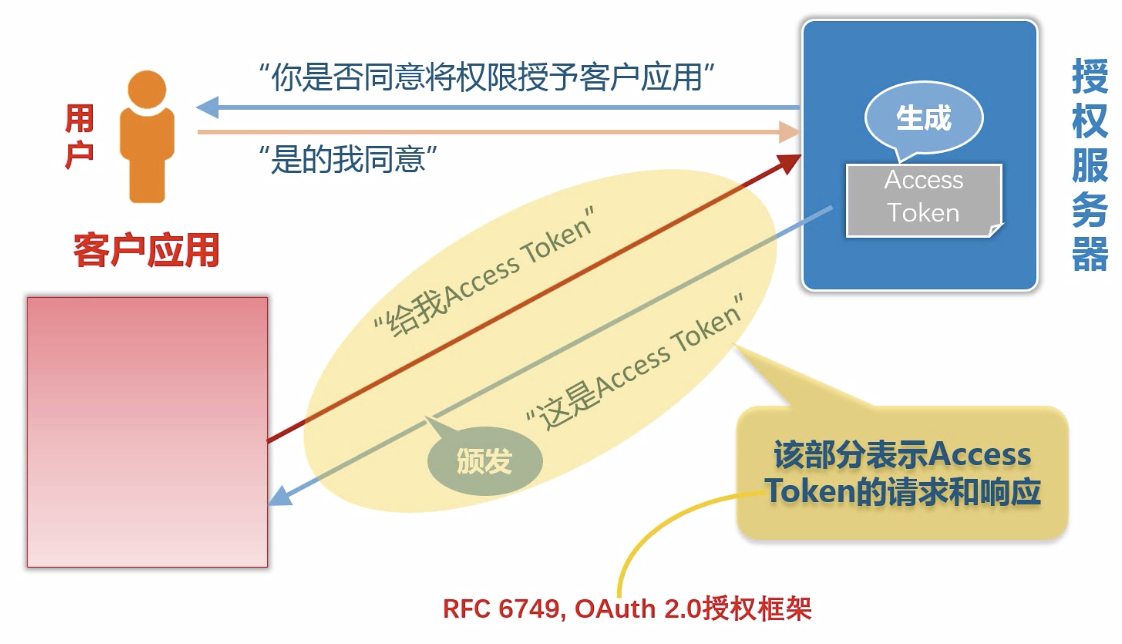
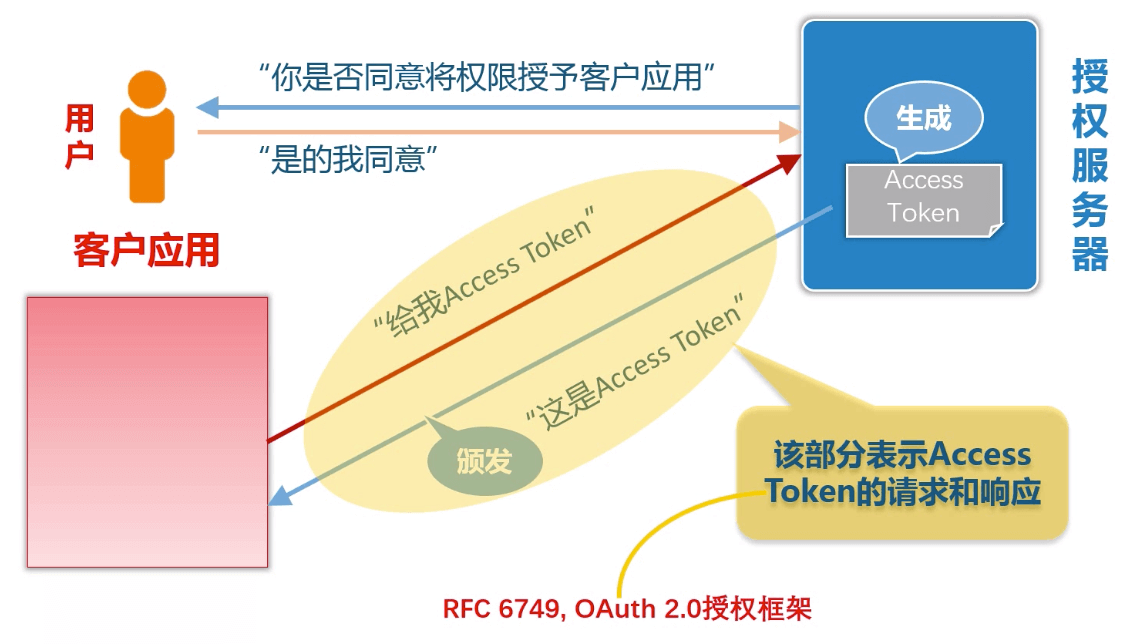
master 压缩图片

diff --git a/blog/2019-06/浏览器输入网址再按下回车后后面发生了什么/index.html b/blog/2019-06/浏览器输入网址再按下回车后后面发生了什么/index.html
@@ -9,7 +9,7 @@
   <meta name="author" content="xpblog">
   <meta name="description" content="序 在日常工作或者面试的时候，我们会经常被问到或者说需要知道。当我们在浏览器中输入一个网址的时候，后面发生了 什么？ 抓包分析 首先我们用浏览器访问127.0.0.1:8000，然后用Wireshark抓包查看整个过程。 我们可以看到浏览器用55938这个端口和服务端的8000端口，先是通过37、38、39这三个序号，完成tcp/ip三次握手，建立连接。 然后在序号54，发送了一个GET请求。55、56则是服">
   
-  <meta property="og:title" content="浏览器输入网址再按下回车后，后面发生了什么？" />
+  <meta property="og:title" content="浏览器输入网址再按下回车后，后面发生了什么" />
 <meta property="og:description" content="序 在日常工作或者面试的时候，我们会经常被问到或者说需要知道。当我们在浏览器中输入一个网址的时候，后面发生了 什么？ 抓包分析 首先我们用浏览器访问127.0.0.1:8000，然后用Wireshark抓包查看整个过程。 我们可以看到浏览器用55938这个端口和服务端的8000端口，先是通过37、38、39这三个序号，完成tcp/ip三次握手，建立连接。 然后在序号54，发送了一个GET请求。55、56则是服" />
 <meta property="og:type" content="article" />
 <meta property="og:url" content="https://xp329486175.github.io/blog/2019-06/%E6%B5%8F%E8%A7%88%E5%99%A8%E8%BE%93%E5%85%A5%E7%BD%91%E5%9D%80%E5%86%8D%E6%8C%89%E4%B8%8B%E5%9B%9E%E8%BD%A6%E5%90%8E%E5%90%8E%E9%9D%A2%E5%8F%91%E7%94%9F%E4%BA%86%E4%BB%80%E4%B9%88/" />
@@ -20,7 +20,7 @@
 
   <title>
   
-       浏览器输入网址再按下回车后，后面发生了什么？ | xpblog 
+       浏览器输入网址再按下回车后，后面发生了什么 | xpblog 
   
   </title>
 
@@ -323,7 +323,7 @@
     
   </ul>
 
-  <div class="px-4 post-heading">浏览器输入网址再按下回车后，后面发生了什么？</div>
+  <div class="px-4 post-heading">浏览器输入网址再按下回车后，后面发生了什么</div>
 
   <ul class="post-meta li-x mt-1">
     

diff --git a/categories/网络协议/index.html b/categories/网络协议/index.html
@@ -489,7 +489,7 @@
     
     <span class="meta"><time datetime='2019-06-14T09:28:48&#43;08:00'>Jun 14, 2019</time></span>
     
-    <a href="https://xp329486175.github.io/blog/2019-06/%E6%B5%8F%E8%A7%88%E5%99%A8%E8%BE%93%E5%85%A5%E7%BD%91%E5%9D%80%E5%86%8D%E6%8C%89%E4%B8%8B%E5%9B%9E%E8%BD%A6%E5%90%8E%E5%90%8E%E9%9D%A2%E5%8F%91%E7%94%9F%E4%BA%86%E4%BB%80%E4%B9%88/"><span>浏览器输入网址再按下回车后，后面发生了什么？</span></a>
+    <a href="https://xp329486175.github.io/blog/2019-06/%E6%B5%8F%E8%A7%88%E5%99%A8%E8%BE%93%E5%85%A5%E7%BD%91%E5%9D%80%E5%86%8D%E6%8C%89%E4%B8%8B%E5%9B%9E%E8%BD%A6%E5%90%8E%E5%90%8E%E9%9D%A2%E5%8F%91%E7%94%9F%E4%BA%86%E4%BB%80%E4%B9%88/"><span>浏览器输入网址再按下回车后，后面发生了什么</span></a>
 </li>
 
                 

diff --git a/series/网络协议/index.html b/series/网络协议/index.html
@@ -489,7 +489,7 @@
     
     <span class="meta"><time datetime='2019-06-14T09:28:48&#43;08:00'>Jun 14, 2019</time></span>
     
-    <a href="https://xp329486175.github.io/blog/2019-06/%E6%B5%8F%E8%A7%88%E5%99%A8%E8%BE%93%E5%85%A5%E7%BD%91%E5%9D%80%E5%86%8D%E6%8C%89%E4%B8%8B%E5%9B%9E%E8%BD%A6%E5%90%8E%E5%90%8E%E9%9D%A2%E5%8F%91%E7%94%9F%E4%BA%86%E4%BB%80%E4%B9%88/"><span>浏览器输入网址再按下回车后，后面发生了什么？</span></a>
+    <a href="https://xp329486175.github.io/blog/2019-06/%E6%B5%8F%E8%A7%88%E5%99%A8%E8%BE%93%E5%85%A5%E7%BD%91%E5%9D%80%E5%86%8D%E6%8C%89%E4%B8%8B%E5%9B%9E%E8%BD%A6%E5%90%8E%E5%90%8E%E9%9D%A2%E5%8F%91%E7%94%9F%E4%BA%86%E4%BB%80%E4%B9%88/"><span>浏览器输入网址再按下回车后，后面发生了什么</span></a>
 </li>
 
                 

diff --git a/tags/网络协议/index.html b/tags/网络协议/index.html
@@ -489,7 +489,7 @@
     
     <span class="meta"><time datetime='2019-06-14T09:28:48&#43;08:00'>Jun 14, 2019</time></span>
     
-    <a href="https://xp329486175.github.io/blog/2019-06/%E6%B5%8F%E8%A7%88%E5%99%A8%E8%BE%93%E5%85%A5%E7%BD%91%E5%9D%80%E5%86%8D%E6%8C%89%E4%B8%8B%E5%9B%9E%E8%BD%A6%E5%90%8E%E5%90%8E%E9%9D%A2%E5%8F%91%E7%94%9F%E4%BA%86%E4%BB%80%E4%B9%88/"><span>浏览器输入网址再按下回车后，后面发生了什么？</span></a>
+    <a href="https://xp329486175.github.io/blog/2019-06/%E6%B5%8F%E8%A7%88%E5%99%A8%E8%BE%93%E5%85%A5%E7%BD%91%E5%9D%80%E5%86%8D%E6%8C%89%E4%B8%8B%E5%9B%9E%E8%BD%A6%E5%90%8E%E5%90%8E%E9%9D%A2%E5%8F%91%E7%94%9F%E4%BA%86%E4%BB%80%E4%B9%88/"><span>浏览器输入网址再按下回车后，后面发生了什么</span></a>
 </li>
 
                 

diff --git a/blog/2019-06/oauth2协议之白话oauth2/index.html b/blog/2019-06/oauth2协议之白话oauth2/index.html
@@ -471,7 +471,7 @@ OAuth2.0并不是单个协议，而是一套协议。<br />
                 <a href=https://xp329486175.github.io/blog/2019-06/%E6%B5%8F%E8%A7%88%E5%99%A8%E8%BE%93%E5%85%A5%E7%BD%91%E5%9D%80%E5%86%8D%E6%8C%89%E4%B8%8B%E5%9B%9E%E8%BD%A6%E5%90%8E%E5%90%8E%E9%9D%A2%E5%8F%91%E7%94%9F%E4%BA%86%E4%BB%80%E4%B9%88/ class="post-meta">Previous
                   <div class="pt-2 pb-5 d-flex">
                     <i class="fas fa-angle-left text-grey font-weight-bold mr-2 active-color"></i>
-                    <span>浏览器输入网址再按下回车后，后面发生了什么？</span>
+                    <span>浏览器输入网址再按下回车后，后面发生了什么</span>
                   </div>
                 </a>
               

diff --git a/blog/2019-06/nginx模块之动态编译/index.html b/blog/2019-06/nginx模块之动态编译/index.html
@@ -525,7 +525,7 @@ total 48
                 <a href=https://xp329486175.github.io/blog/2019-06/%E6%B5%8F%E8%A7%88%E5%99%A8%E8%BE%93%E5%85%A5%E7%BD%91%E5%9D%80%E5%86%8D%E6%8C%89%E4%B8%8B%E5%9B%9E%E8%BD%A6%E5%90%8E%E5%90%8E%E9%9D%A2%E5%8F%91%E7%94%9F%E4%BA%86%E4%BB%80%E4%B9%88/ class="post-meta">Next
                   <div class="pt-2 pb-5 flex-reverse">
                     <i class="fas fa-angle-right text-grey font-weight-bold ml-2 active-color"></i>
-                    <span>浏览器输入网址再按下回车后，后面发生了什么？</span>
+                    <span>浏览器输入网址再按下回车后，后面发生了什么</span>
                   </div>
                 </a>
               

diff --git a/blog/index.html b/blog/index.html
@@ -634,7 +634,7 @@
   
   <a href="https://xp329486175.github.io/blog/2019-06/%E6%B5%8F%E8%A7%88%E5%99%A8%E8%BE%93%E5%85%A5%E7%BD%91%E5%9D%80%E5%86%8D%E6%8C%89%E4%B8%8B%E5%9B%9E%E8%BD%A6%E5%90%8E%E5%90%8E%E9%9D%A2%E5%8F%91%E7%94%9F%E4%BA%86%E4%BB%80%E4%B9%88/">
     <div class="post-header text-center">
-      <div class="px-4 post-heading">浏览器输入网址再按下回车后，后面发生了什么？</div>
+      <div class="px-4 post-heading">浏览器输入网址再按下回车后，后面发生了什么</div>
       <ul class="post-meta li-x mt-1">
         
           <li>Jun 14, 2019</li>

diff --git a/index.html b/index.html
@@ -733,7 +733,7 @@
   
   <a href="https://xp329486175.github.io/blog/2019-06/%E6%B5%8F%E8%A7%88%E5%99%A8%E8%BE%93%E5%85%A5%E7%BD%91%E5%9D%80%E5%86%8D%E6%8C%89%E4%B8%8B%E5%9B%9E%E8%BD%A6%E5%90%8E%E5%90%8E%E9%9D%A2%E5%8F%91%E7%94%9F%E4%BA%86%E4%BB%80%E4%B9%88/">
     <div class="post-header text-center">
-      <div class="px-4 post-heading">浏览器输入网址再按下回车后，后面发生了什么？</div>
+      <div class="px-4 post-heading">浏览器输入网址再按下回车后，后面发生了什么</div>
       <ul class="post-meta li-x mt-1">
         
           <li>Jun 14, 2019</li>
